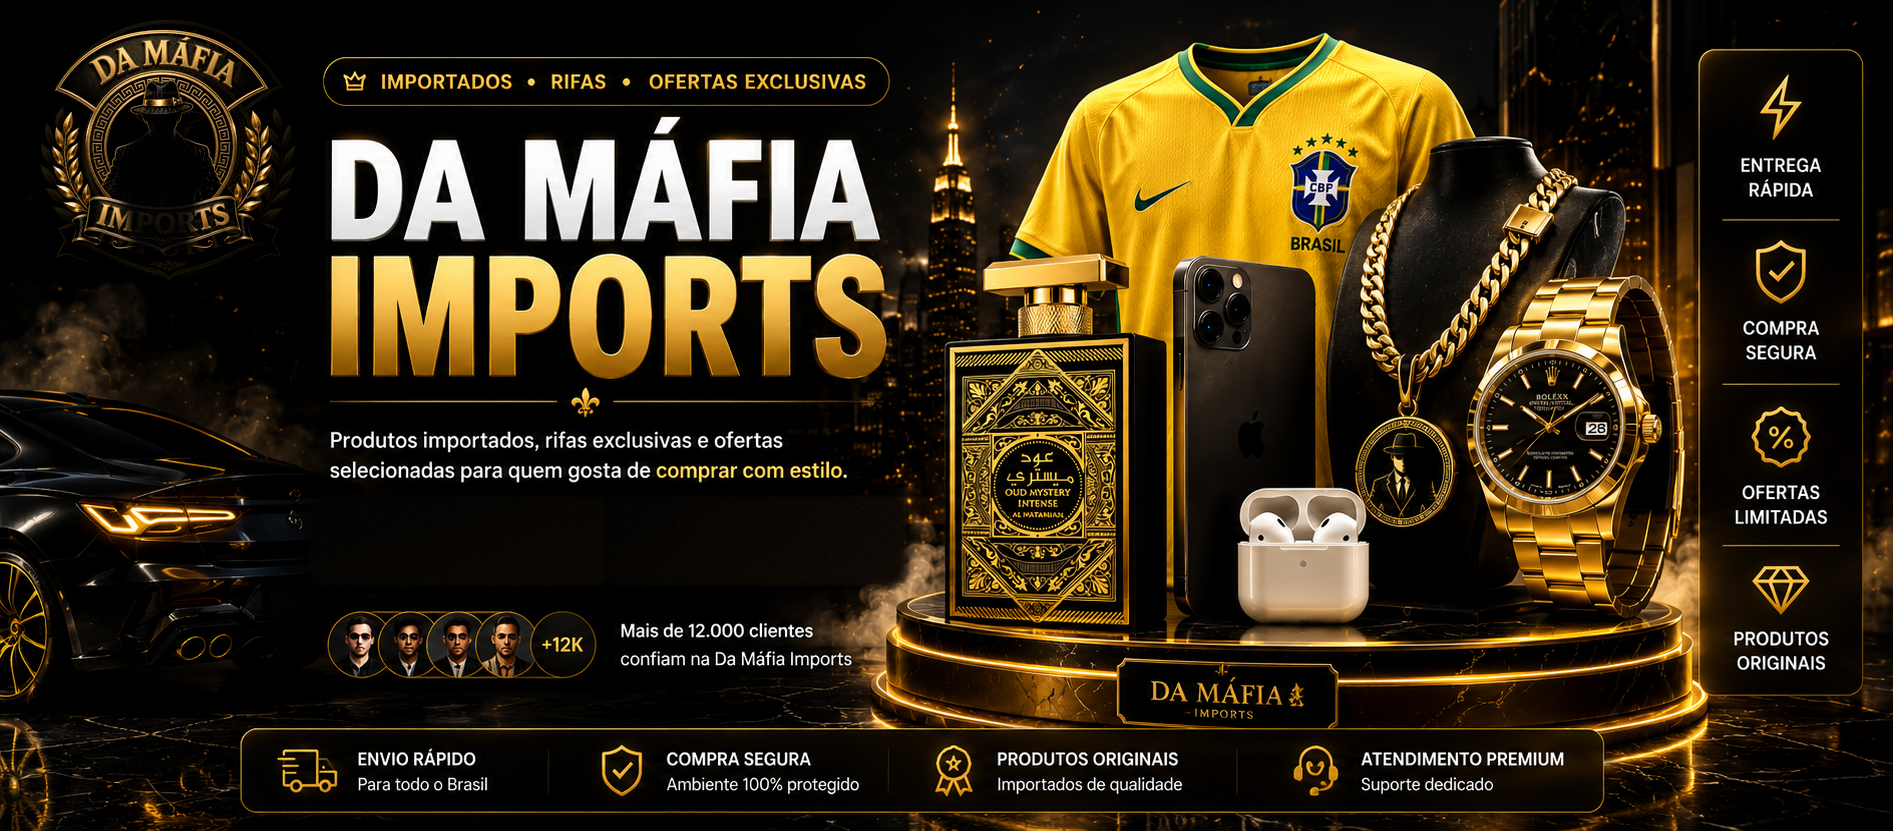
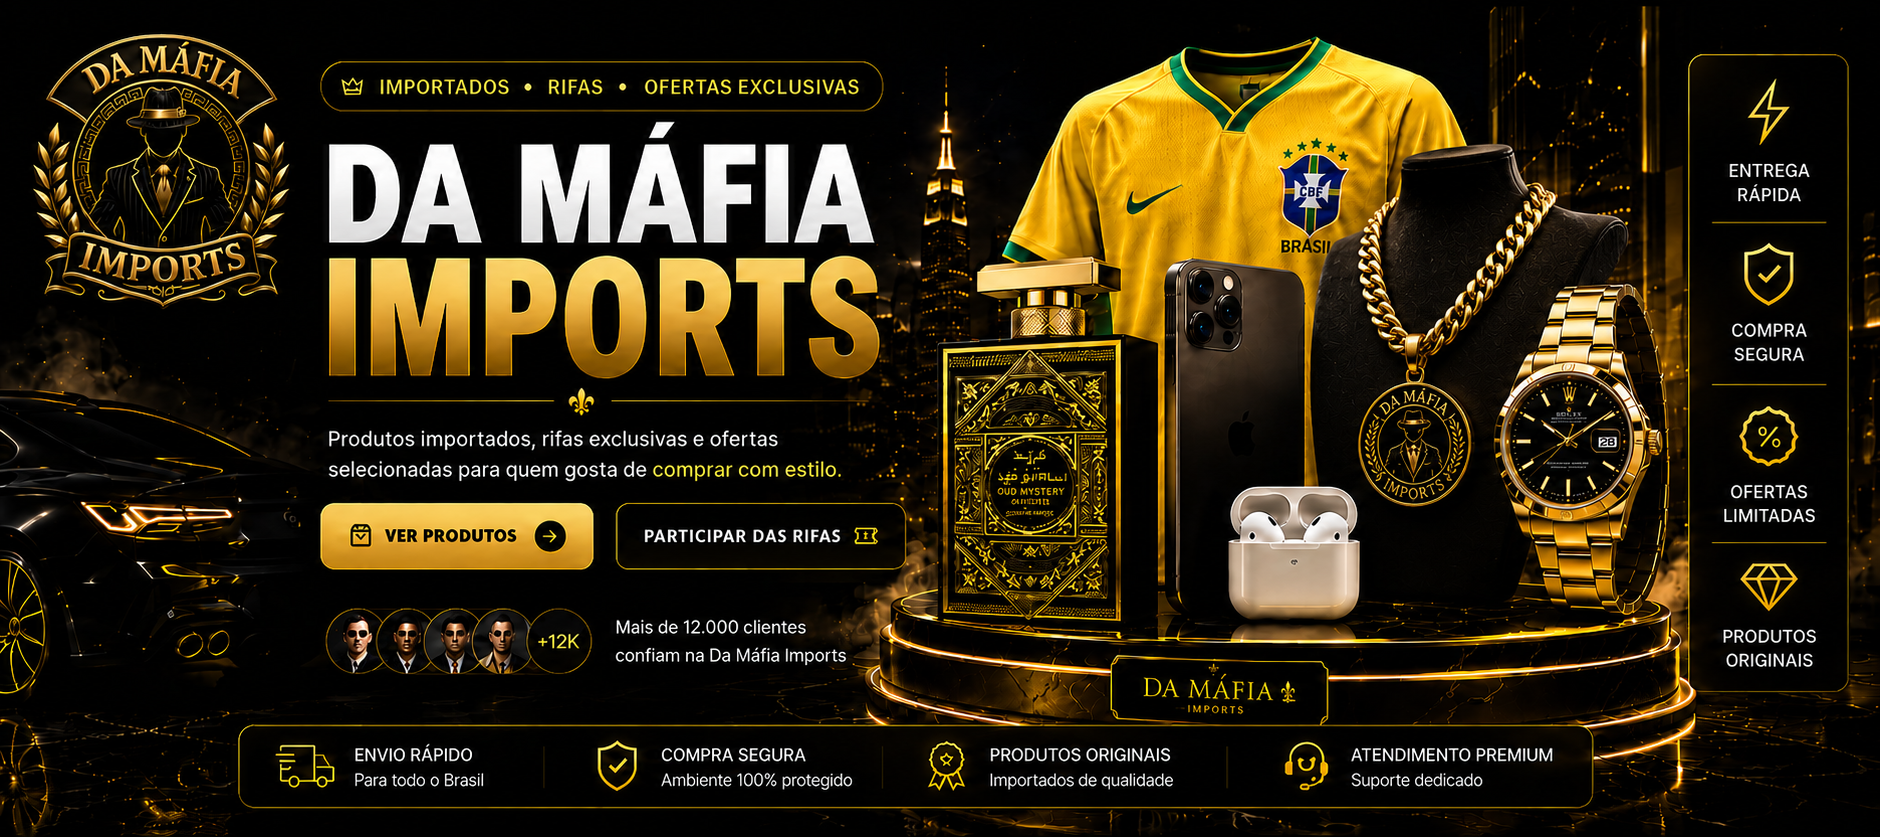
Substitui hero da pagina inicial

diff --git a/src/routes/index.tsx b/src/routes/index.tsx
@@ -11,7 +11,7 @@ function Index() {
       <div className="exact-template-home__stage">
         <img
           className="exact-template-home__image exact-template-home__image--final"
-          src="/assets/da-mafia/home-hero-brasil-rolex-20260604.png?v=hero-logo-sem-rosto-20260604"
+          src="/assets/da-mafia/home-hero-brasil-rolex-20260604.png?v=hero-inicio-nova-20260605"
           alt="DA MAFIA IMPORTS - Produtos importados, rifas exclusivas e ofertas selecionadas"
         />
 
